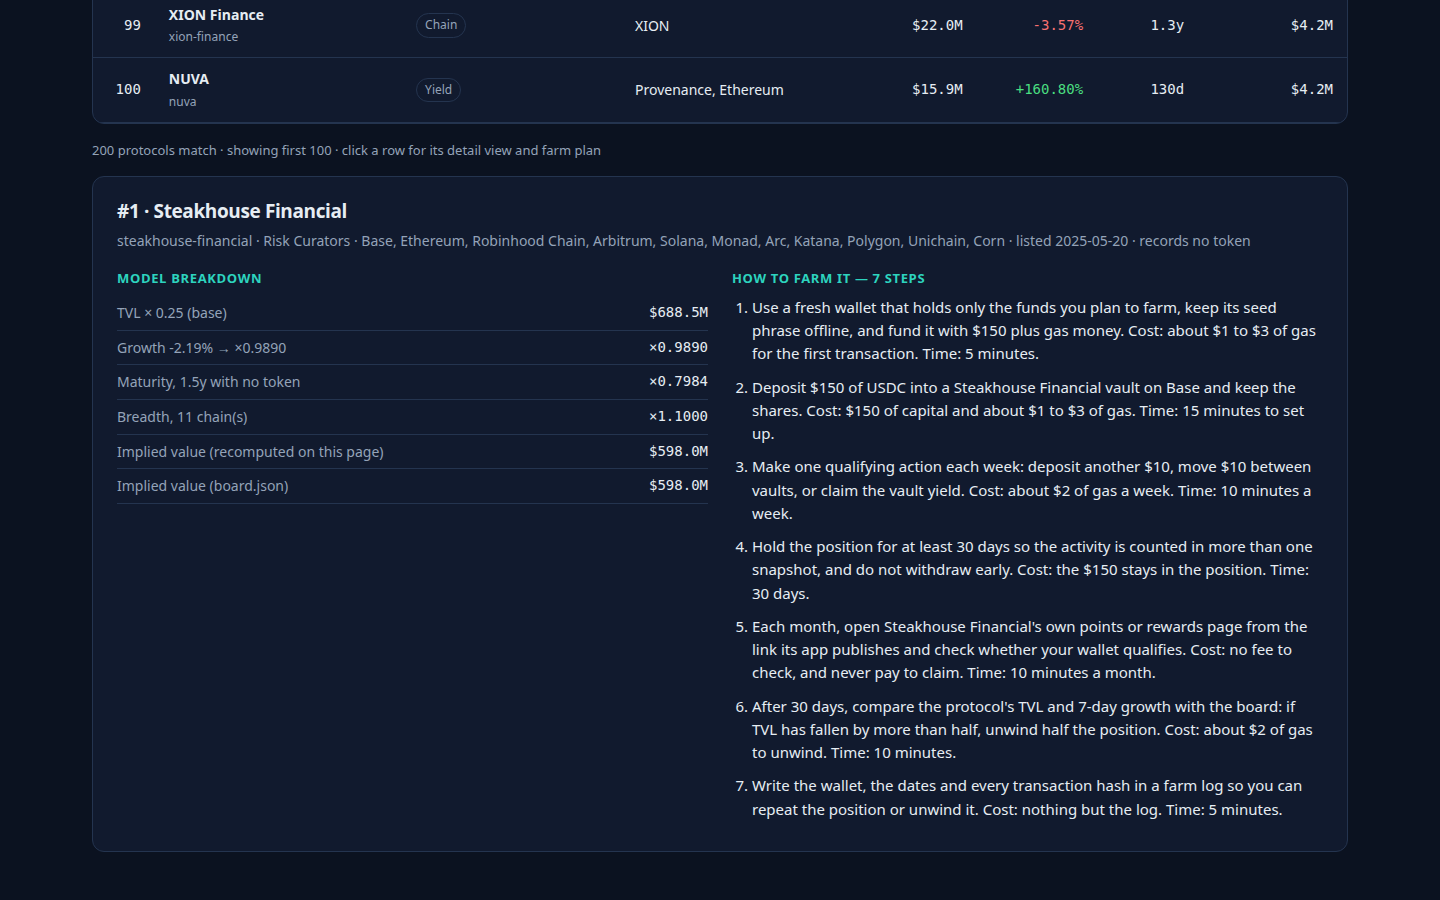
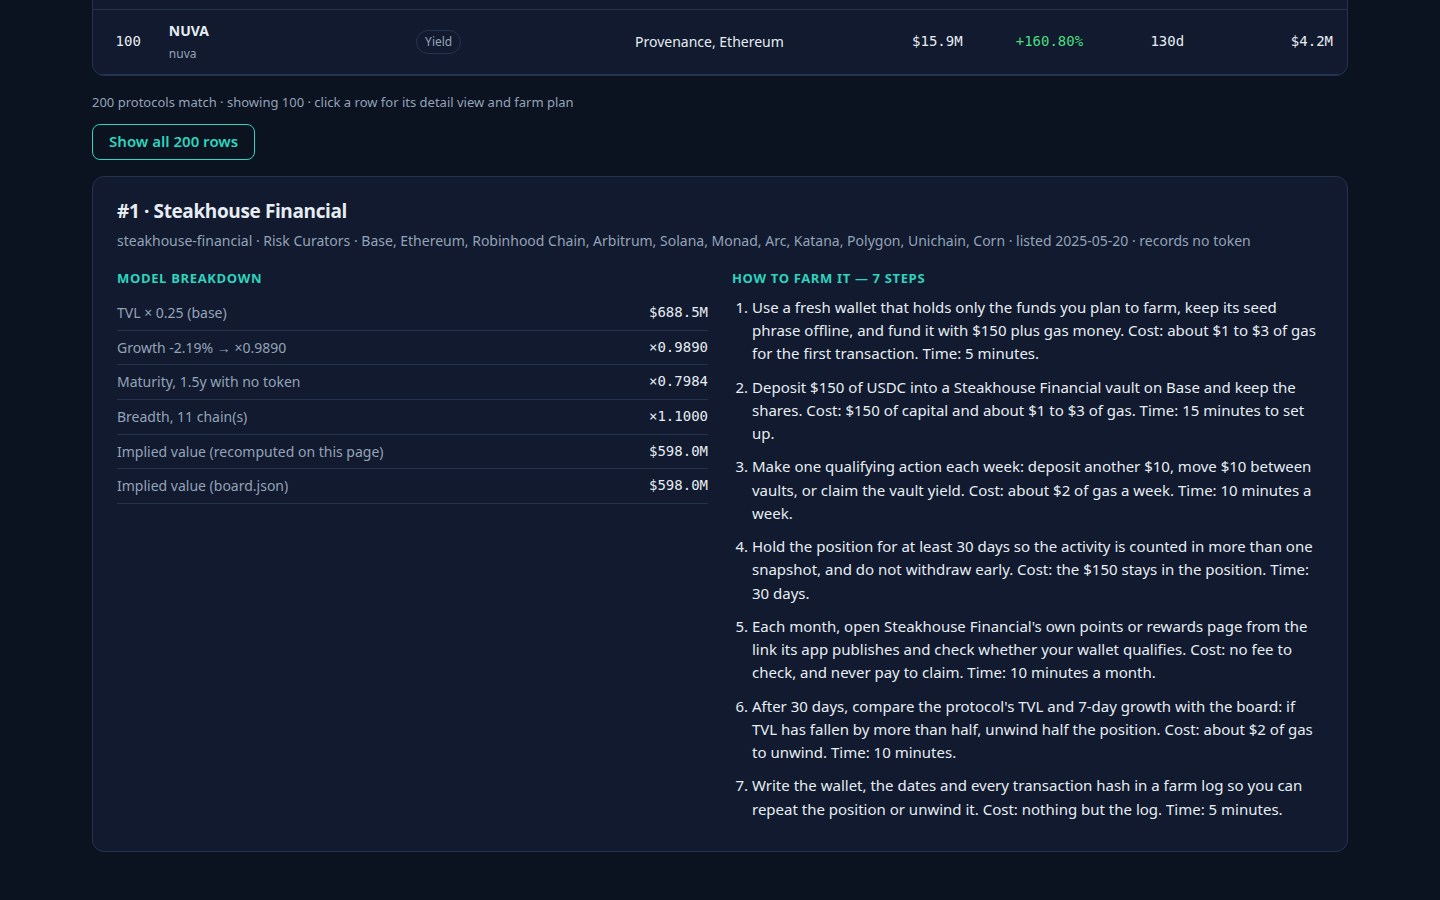
Dashboard: show-all toggle for the full 200-row board

Changed region(s): [[0.0625, 0.0, 0.9375, 0.1867]]

diff --git a/dashboard/app.js b/dashboard/app.js
@@ -8,7 +8,7 @@
   var DATA = window.RADAR;
   if (!DATA) return;
   var app = document.getElementById('board');
-  var state = { q: '', category: 'all', chain: 'all', tab: 'pre-token', sort: 'implied', dir: -1, selected: null };
+  var state = { q: '', category: 'all', chain: 'all', tab: 'pre-token', sort: 'implied', dir: -1, selected: null, showAll: false };
 
   var usd = new Intl.NumberFormat('en-US', { style: 'currency', currency: 'USD', maximumFractionDigits: 0 });
   function fmtUsd(n) {
@@ -273,7 +273,7 @@
     if (rows.length === 0) {
       tbody.appendChild(el('tr', null, el('td', { colspan: 8, class: 'empty', text: 'No protocols match this filter.' })));
     }
-    rows.slice(0, 100).forEach(function (r) {
+    rows.slice(0, state.showAll ? rows.length : 100).forEach(function (r) {
       var tr = el('tr', { class: state.selected === r.slug ? 'selected' : '', onclick: function () { state.selected = r.slug; render(); } },
         el('td', { class: 'num', text: String(r.rank) }),
         el('td', { class: 'name' }, el('b', { text: r.name }), el('span', { text: r.slug })),
@@ -288,8 +288,13 @@
     table.appendChild(tbody);
     panel.firstChild.appendChild(table);
     shell.appendChild(panel);
-    var count = el('p', { class: 'note', text: rows.length + ' protocols match · showing first 100 · click a row for its detail view and farm plan' });
+    var shown = state.showAll ? rows.length : Math.min(100, rows.length);
+    var count = el('p', { class: 'note', text: rows.length + ' protocols match · showing ' + shown + ' · click a row for its detail view and farm plan' });
     shell.appendChild(count);
+    if (rows.length > 100) {
+      var more = el('button', { class: 'more', text: state.showAll ? 'Show first 100' : 'Show all ' + rows.length + ' rows', onclick: function () { state.showAll = !state.showAll; render(); } });
+      shell.appendChild(more);
+    }
 
     var selected = state.selected ? DATA.rows.find(function (r) { return r.slug === state.selected; }) : null;
     if (selected) {

diff --git a/dashboard/app.css b/dashboard/app.css
@@ -82,4 +82,6 @@ td.name span { color: var(--muted); font-size: 12px; }
 .steps li b { color: var(--accent); }
 .empty { padding: 32px; text-align: center; color: var(--muted); }
 .note { color: var(--muted); font-size: 13px; margin-top: 16px; }
+.more { margin-top: 12px; min-height: 36px; padding: 0 16px; border: 1px solid var(--accent); border-radius: 8px; background: transparent; color: var(--accent); font-weight: 600; }
+.more:hover { background: rgba(45,212,191,.12); }
 @media (max-width: 860px) { .lede, .detail-grid { grid-template-columns: 1fr; } .facts { border-left: 0; padding-left: 0; } }
